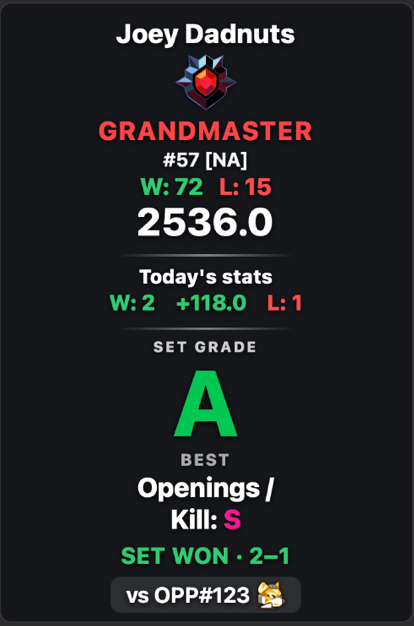
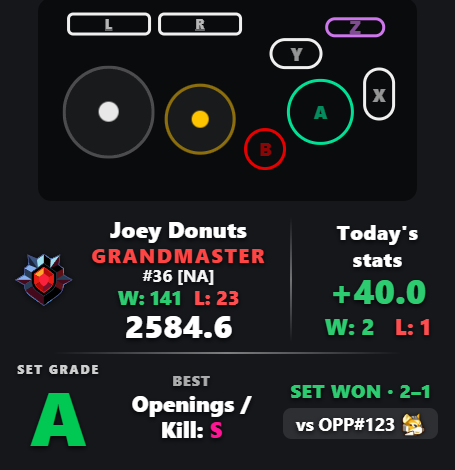
site: refresh the overlay screenshot and drop the ranked-only framing
The overlay shot predated the input viewer, and the page was written when
only ranked sets could be graded.

New screenshot shows the whole overlay in one frame: live controller
inputs, the identity panel, and the post-set grade bridge.

Copy fixes, since friendlies are graded now too:
- meta description: "your Slippi Ranked sets" -> "your Slippi games"
- hero: "every ranked set you play" -> "every set and game you play"
- scanning: "every ranked set" -> "every ranked set and friendly"

Still to do: a screenshot of Grading -> Unranked & Direct, and a feature
card for it.

diff --git a/site/index.html b/site/index.html
@@ -4,7 +4,7 @@
 <meta charset="utf-8" />
 <meta name="viewport" content="width=device-width, initial-scale=1" />
 <title>Slippi Ranked Stats</title>
-<meta name="description" content="A desktop app for analyzing your Slippi Ranked sets — matchups, stages, sessions, rating history, and a grade for every set against real ranked data." />
+<meta name="description" content="A desktop app for analyzing your Slippi games — matchups, stages, sessions, rating history, and a grade for every set against real ranked data." />
 <link rel="icon" href="srs-logo.svg" type="image/svg+xml" />
 <link rel="preconnect" href="https://fonts.googleapis.com">
 <link rel="preconnect" href="https://fonts.gstatic.com" crossorigin>
@@ -447,9 +447,9 @@
       </div>
       <div class="shot">
         <div class="shot-frame">
-          <img src="screenshots/overlay-preview.png" alt="The Live Stats Overlay panel in OBS: rank, Rating, session record, and the grade and result for the last set played" />
+          <img src="screenshots/overlay-preview.png" alt="The Live Stats Overlay in OBS: live controller inputs, rank, Rating, session record, and the grade for the set just played" />
         </div>
-        <div class="shot-caption">An always-on OBS overlay — rank, Rating, and set grade, live (Premium)</div>
+        <div class="shot-caption">An always-on OBS overlay — live controller inputs, rank, Rating, and set grade (Premium)</div>
       </div>
     </div>
     <div class="shot-row">
@@ -471,13 +471,13 @@
   <section class="features">
     <div class="section-head reveal">
       <div class="eyebrow">What it tracks</div>
-      <h2>A full breakdown of every ranked set you play</h2>
+      <h2>A full breakdown of every set and game you play</h2>
     </div>
     <div class="feature-grid reveal">
       <div class="feature">
         <svg viewBox="0 0 24 24"><circle cx="12" cy="12" r="8"/><circle cx="12" cy="12" r="2.5"/><path d="M12 2v3M12 19v3M2 12h3M19 12h3"/></svg>
         <h3>Replay scanning</h3>
-        <p>Point it at your local Slippi folder and it pulls in every ranked set automatically.</p>
+        <p>Point it at your local Slippi folder and it pulls in every ranked set and friendly automatically.</p>
       </div>
       <div class="feature">
         <svg viewBox="0 0 24 24"><path d="M3 20 9 8l4 6 3-4 5 10"/></svg>
